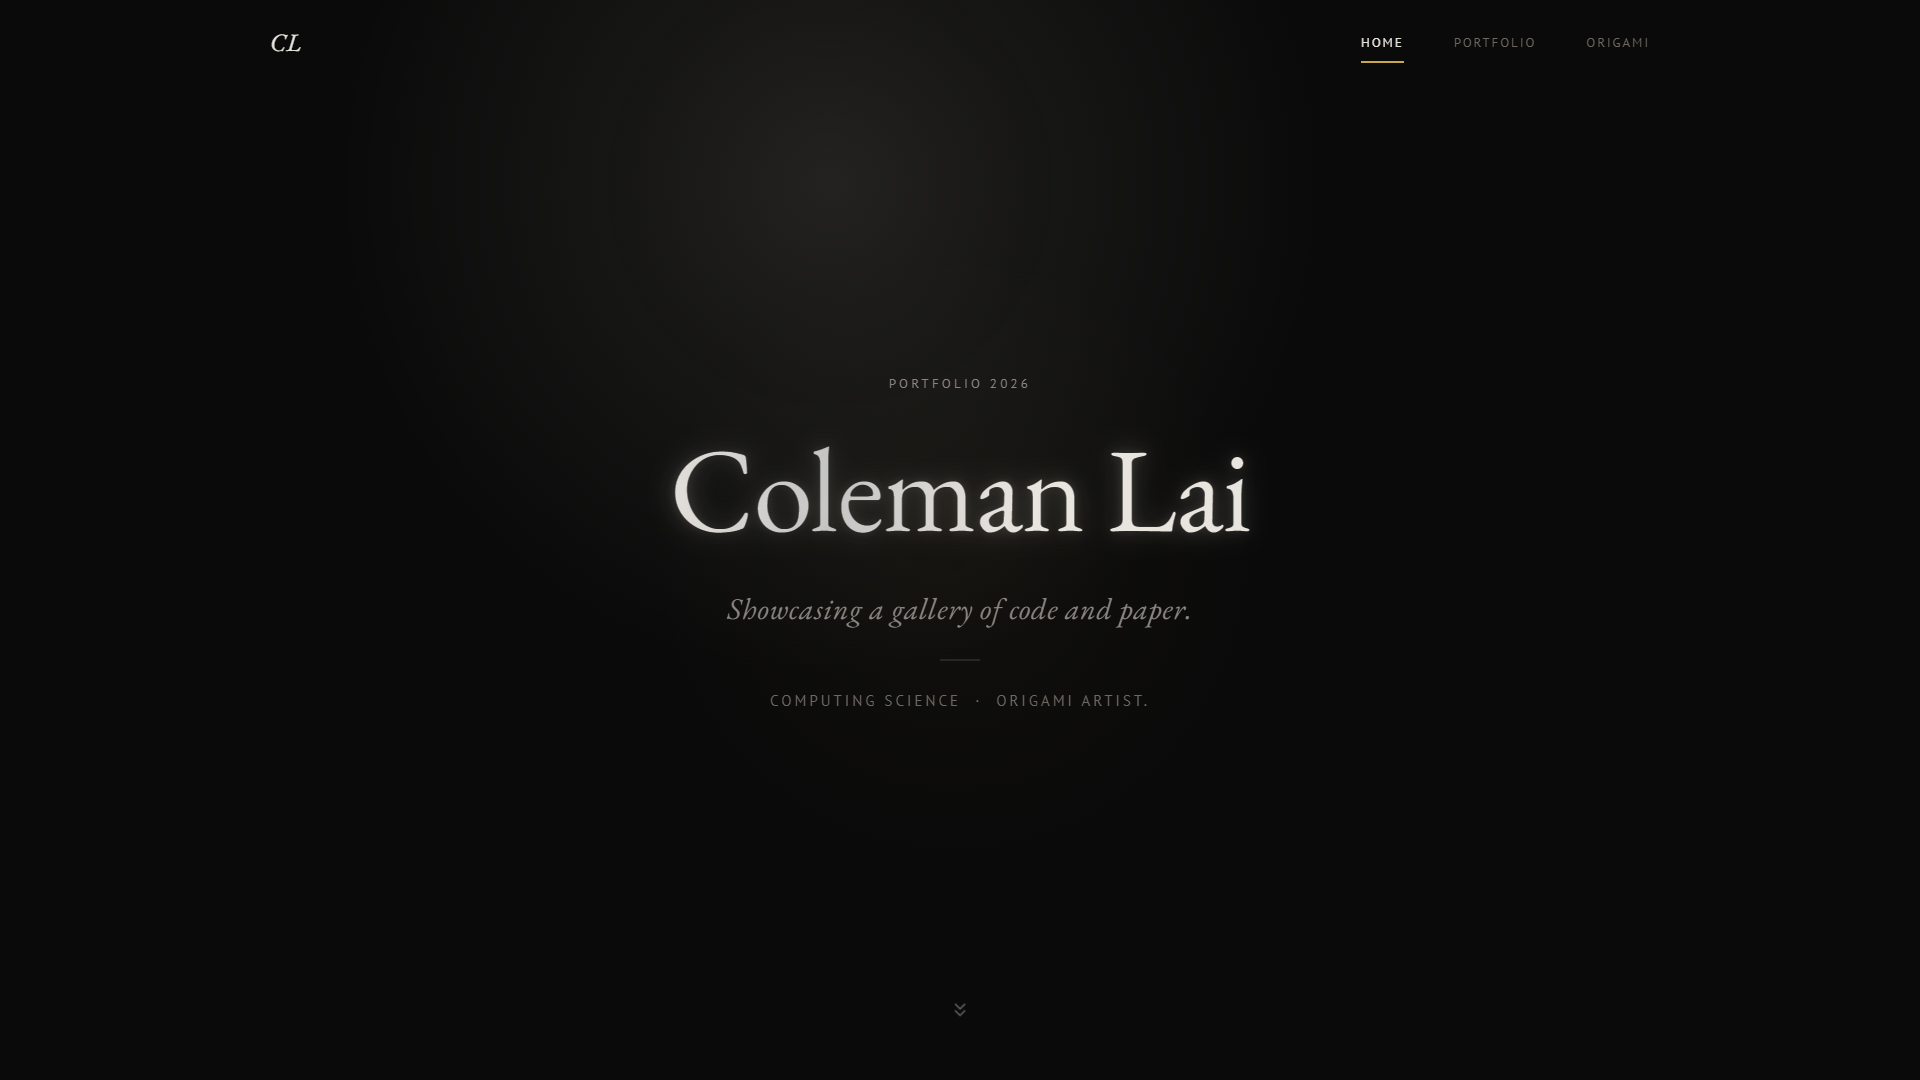
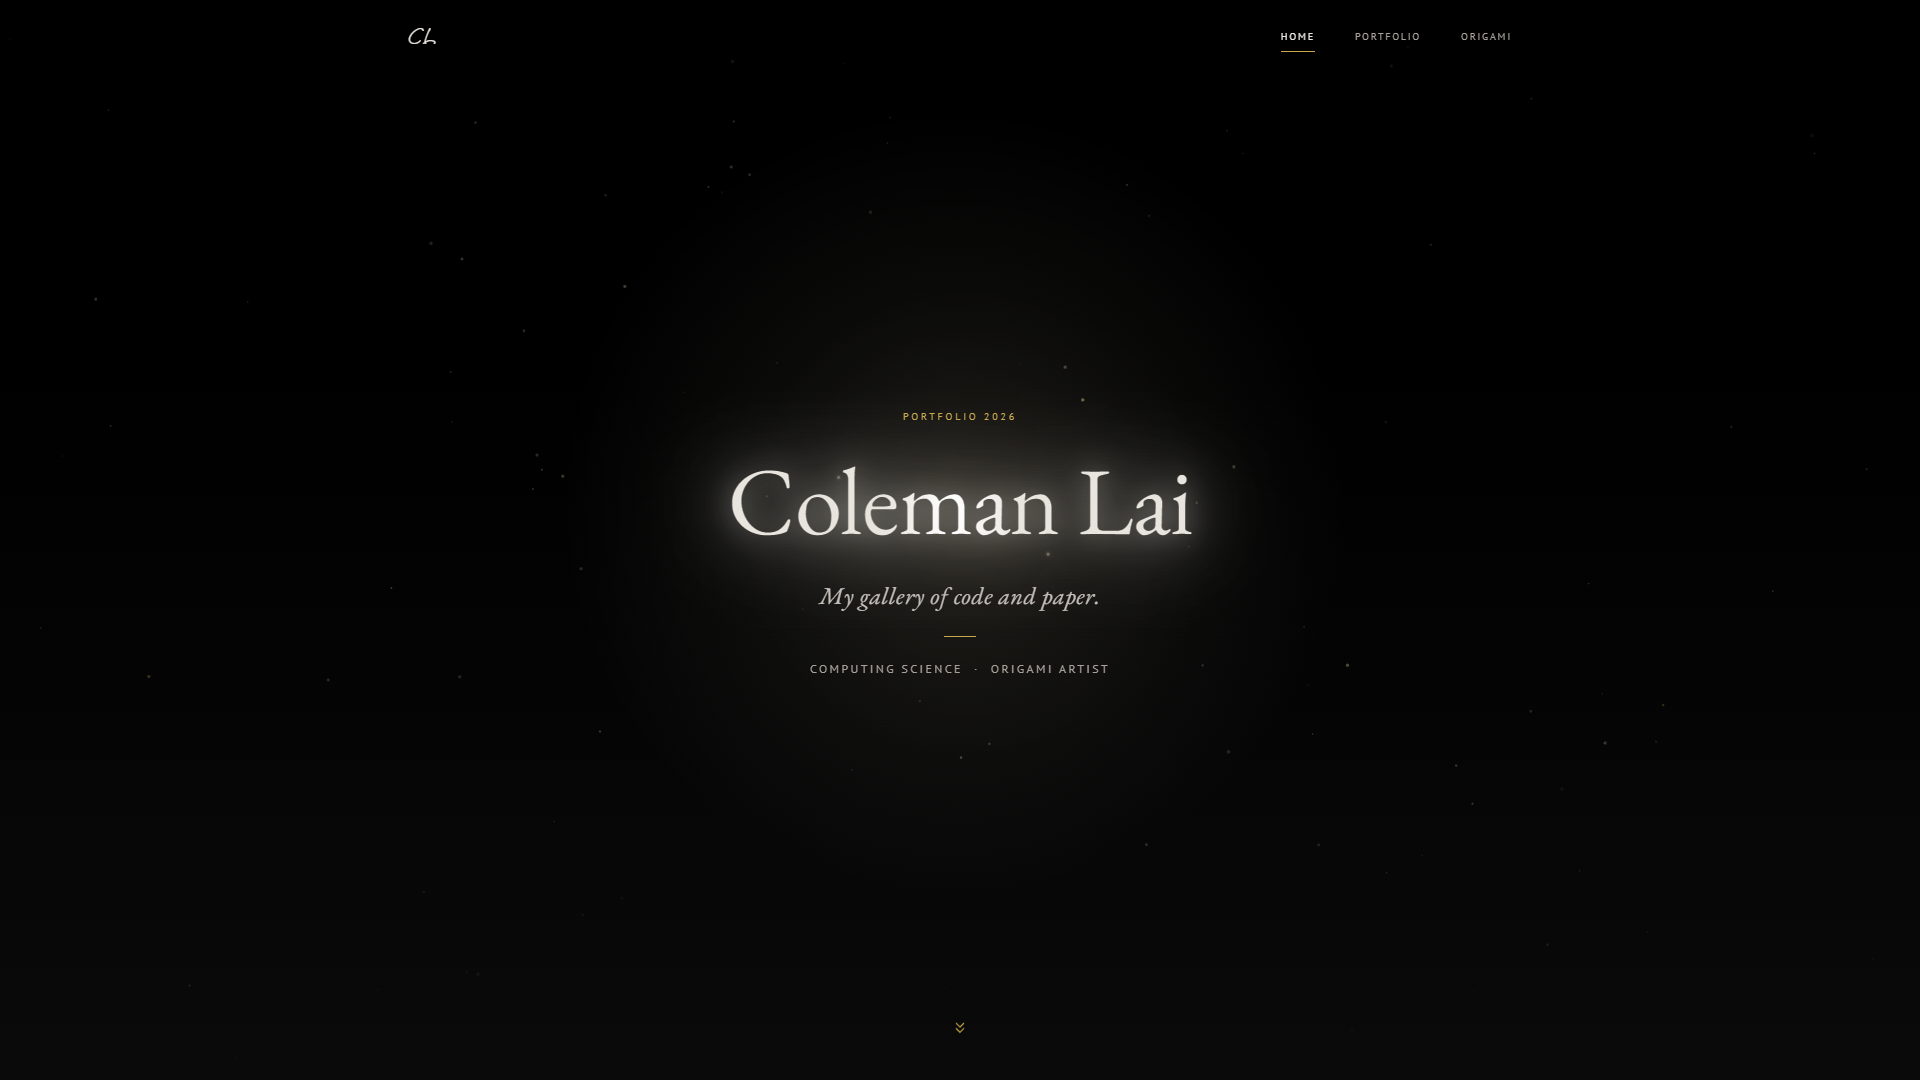
feat: add image optimization workflow and pre-commit hook for automatic image processing

diff --git a/src/components/ui/MasonrySpotlightGrid.tsx b/src/components/ui/MasonrySpotlightGrid.tsx
@@ -1,4 +1,4 @@
-import { ReactNode } from 'react';
+import { ReactNode, Children, useSyncExternalStore } from 'react';
 import { useSpotlight } from '../../utils/useSpotlight';
 import { useScrollProximity } from '../../utils/useScrollProximity';
 import { useStaggeredEntrance } from '../../utils/useStaggeredEntrance';
@@ -10,16 +10,50 @@ interface MasonrySpotlightGridProps {
     skipCount?: number;
 }
 
+/* ── responsive column count (SSR-safe) ── */
+const BREAKPOINTS = [
+    { minWidth: 1024, cols: 3 },
+    { minWidth: 640, cols: 2 },
+] as const;
+
+function getColumnCount() {
+    if (typeof window === 'undefined') return 1;
+    for (const bp of BREAKPOINTS) {
+        if (window.innerWidth >= bp.minWidth) return bp.cols;
+    }
+    return 1;
+}
+
+function subscribeToResize(cb: () => void) {
+    window.addEventListener('resize', cb);
+    return () => window.removeEventListener('resize', cb);
+}
+
+function useColumnCount() {
+    return useSyncExternalStore(subscribeToResize, getColumnCount, () => 1);
+}
+
 /**
  * Masonry layout with mouse-following spotlight.
- * Uses CSS columns for the mosaic effect and tracks
- * the cursor to position a radial-gradient follow-spot.
+ * Distributes children round-robin across columns so visual order
+ * reads left-to-right, row-by-row instead of column-by-column.
  * On mobile/touch devices, uses scroll-proximity dimming instead.
  */
 export function MasonrySpotlightGrid({ children, className = '', skipCount = 0 }: MasonrySpotlightGridProps) {
     const { ref, onMouseMove, onMouseEnter, onMouseLeave } = useSpotlight();
     useScrollProximity(ref);
     useStaggeredEntrance(ref, 80, skipCount);
+
+    const colCount = useColumnCount();
+    const items = Children.toArray(children);
+
+    // Distribute items round-robin so row order is preserved
+    const columns: ReactNode[][] = Array.from({ length: colCount }, () => []);
+    const indices: number[][] = Array.from({ length: colCount }, () => []);
+    items.forEach((child, i) => {
+        columns[i % colCount].push(child);
+        indices[i % colCount].push(i);
+    });
 
     return (
         <div
@@ -30,7 +64,15 @@ export function MasonrySpotlightGrid({ children, className = '', skipCount = 0 }
             className={`spotlight-group ${className}`}
         >
             <div className="masonry-grid">
-                {children}
+                {columns.map((col, colIdx) => (
+                    <div key={colIdx} className="masonry-col">
+                        {col.map((child, rowIdx) => (
+                            <div key={indices[colIdx][rowIdx]} data-stagger-index={indices[colIdx][rowIdx]}>
+                                {child}
+                            </div>
+                        ))}
+                    </div>
+                ))}
             </div>
         </div>
     );

diff --git a/src/utils/useStaggeredEntrance.ts b/src/utils/useStaggeredEntrance.ts
@@ -34,7 +34,16 @@ export function useStaggeredEntrance(
 
         const container = containerRef.current;
         if (!container) return;
-        const items = container.querySelectorAll<HTMLElement>('.spotlight-item');
+        const rawItems = container.querySelectorAll<HTMLElement>('.spotlight-item');
+
+        // Sort by data-stagger-index when present (masonry row-order),
+        // otherwise keep DOM order.
+        const items = Array.from(rawItems).sort((a, b) => {
+            const ai = (a.closest('[data-stagger-index]') as HTMLElement | null)?.dataset.staggerIndex;
+            const bi = (b.closest('[data-stagger-index]') as HTMLElement | null)?.dataset.staggerIndex;
+            if (ai != null && bi != null) return Number(ai) - Number(bi);
+            return 0;
+        });
 
         // Pre-hide staggered items immediately so they never flash visible then hide.
         items.forEach((item, i) => {

diff --git a/src/index.css b/src/index.css
@@ -589,18 +589,18 @@
   .font-body { font-family: 'PT Sans', 'PT Sans Fallback', system-ui, sans-serif; }
   .text-balance { text-wrap: balance; }
 
-  /* --- MASONRY GRID via CSS columns --- */
+  /* --- MASONRY GRID via JS-distributed flex columns (row-order) --- */
   .masonry-grid {
-    column-count: 1;
-    column-gap: 3.5rem;
+    display: flex;
+    gap: 3.5rem;
   }
-  @media (min-width: 640px) {
-    .masonry-grid { column-count: 2; }
+  .masonry-col {
+    flex: 1;
+    display: flex;
+    flex-direction: column;
   }
-  @media (min-width: 1024px) {
-    .masonry-grid { column-count: 3; }
-  }
-  .masonry-grid > * {
+  .masonry-col > * > .spotlight-item,
+  .masonry-col > .spotlight-item {
     break-inside: avoid;
     margin-bottom: 3.5rem;
     padding-bottom: 3rem;

diff --git a/src/utils/useCustomCursor.ts b/src/utils/useCustomCursor.ts
@@ -8,6 +8,7 @@ import { useEffect } from 'react';
  */
 export function useCustomCursor() {
     useEffect(() => {
+        return;
         // Only on hover-capable (desktop) devices with a fine pointer (mouse/trackpad)
         // Using both checks because Chrome Android can falsely report (hover: hover)
         if (!window.matchMedia('(hover: hover) and (pointer: fine)').matches) return;
